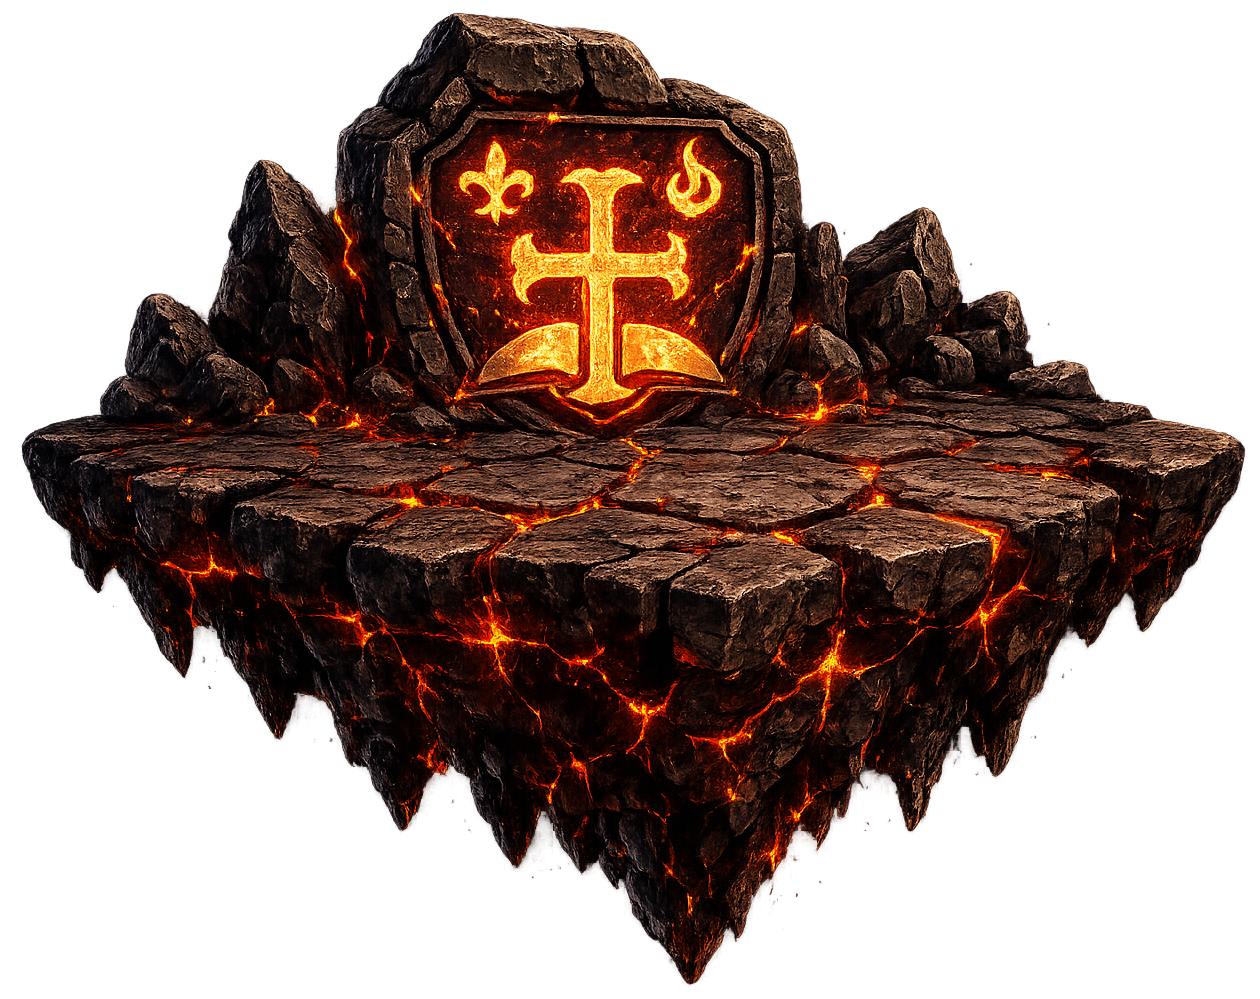
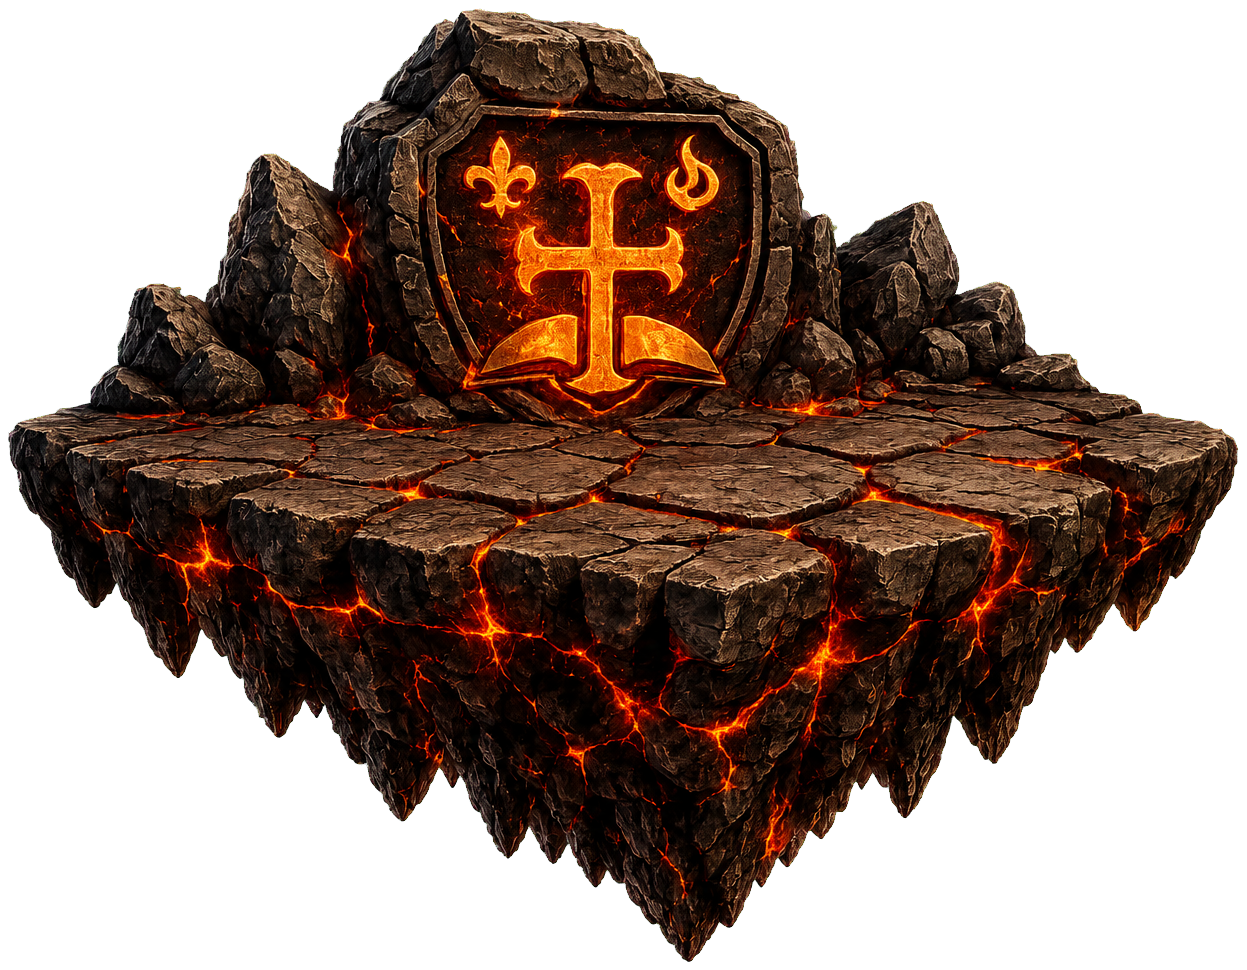
Replace Colt Run platform 13

diff --git a/app.js b/app.js
@@ -2051,6 +2051,7 @@ function startColtRunGame() {
   platformAssetVersions[3] = "20260718-platform04-replace1";
   platformAssetVersions[4] = "20260718-platform05-replace1";
   platformAssetVersions[8] = "20260718-platform09-replace1";
+  platformAssetVersions[12] = "20260718-platform13-replace1";
   platformAssetVersions[13] = "20260718-platform14-replace1";
   platformAssetVersions[14] = "20260718-platform15-replace1";
   platformAssetVersions[17] = "20260718-platform18-replace1";

diff --git a/index.html b/index.html
@@ -8,7 +8,7 @@
 </head>
 <body>
   <main id="app" class="app-shell"></main>
-  <script src="app.js?v=20260718-platform02-replace1"></script>
+  <script src="app.js?v=20260718-platform13-replace1"></script>
 </body>
 </html>
 
